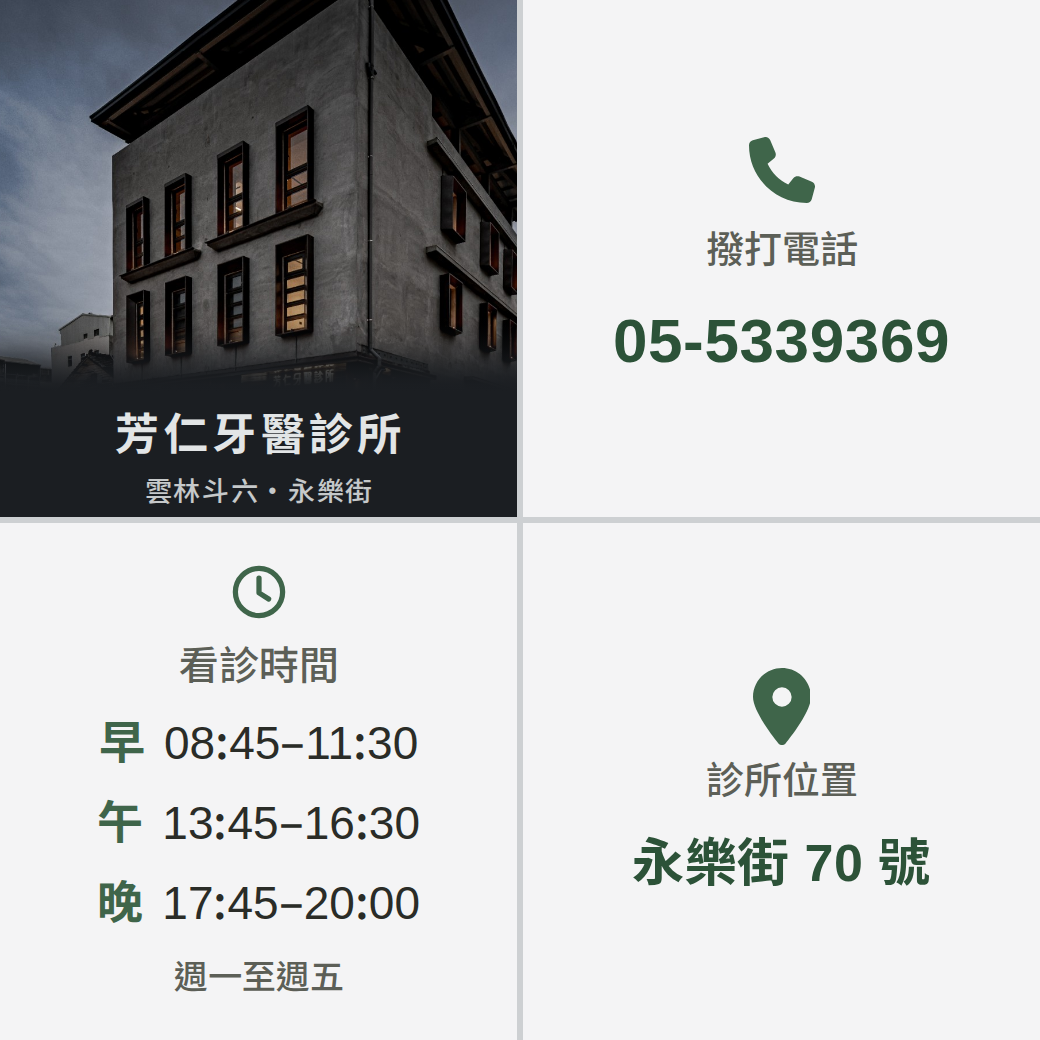
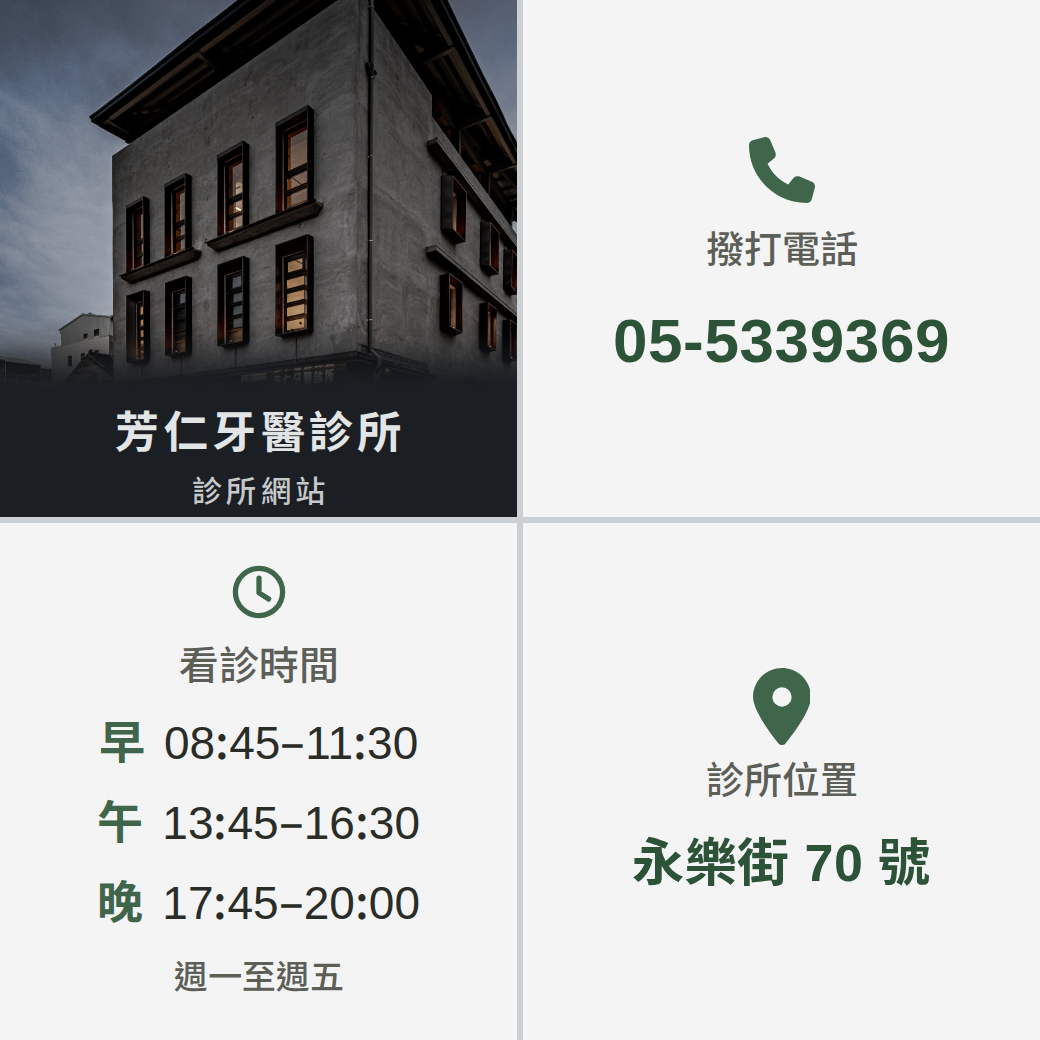
LINE：招呼訊息與自動回應分開寫，文字收短、功能秀出來
使用者第二輪：選四格圖；歡迎那一則要短、要講「這個 LINE 有什麼功能」，
不需要寫「無法一則一則回覆」；病人打字之後那一則要另外做，而且不能
只說「這裡沒有人」，要把功能一起秀出來。

・分清楚後台是兩個設定：招呼訊息只在加好友時送一次（可用顯示名稱變數），
  自動回應對任何訊息都回 —— 包含那句「綁定成功」，所以同一則要在
  「剛綁定完」與「打字要改約」兩種情境下都讀得通。
・四格圖左上那格第二行從地名改成「診所網站」：其他三格都寫著點下去
  會怎樣，只有它沒有，那正是使用者說「不是一個完整的功能回應」的地方。
・電話號碼改成自己一行 —— 原本在 390 寬上被折成 05- / 5339369，
  折了就不再是一個可以點的電話。
・提案頁改成文字跟著情境走，三個情境 × 四個版本。
  新版自動回應 28%、招呼訊息 31%，和現況一樣輕。

Claude-Session: https://claude.ai/code/session_01XYwYJoHc1We7z3qC49kjKr

Changed region(s): [[0.0923, 0.4, 0.4, 0.4923]]

diff --git a/preview/line-reply/index.html b/preview/line-reply/index.html
@@ -95,8 +95,10 @@ h1{font-size:1rem;font-weight:700;letter-spacing:.02em}
 
 <div class="pv-wrap">
   <h1>LINE 自動回應 —— 病人手機上長什麼樣</h1>
-  <p class="pv-sub">底下切換<b>情境</b>與<b>版本</b>。這是病人看到的畫面：官方帳號在左邊，
-    他自己的訊息在右邊。後台那個「自動回應訊息」小標籤只有你看得到，他不會看到。</p>
+  <p class="pv-sub">底下切換<b>情境</b>與<b>版本</b>。這是病人看到的畫面：官方帳號在左邊，他自己的訊息在右邊。
+    後台那個「自動回應訊息」小標籤只有你看得到，他不會看到。<br>
+    ⚠ <b>加好友</b>那一則是「招呼訊息」，<b>綁定完</b>與<b>打字之後</b>跳出來的是同一則「自動回應」——
+    後台是兩個不同的設定。</p>
 
   <div class="pv-phone">
     <div class="pv-head">
@@ -119,39 +121,46 @@ h1{font-size:1rem;font-weight:700;letter-spacing:.02em}
 (function () {
   var TEL = "05-5339369";
 
-  /* ------- 各版本的自動回應（全文與推導在 drafts/line-auto-reply/README.md） ---- */
-  var REPLY = {
-    now: { name: "現況", text:
-"感謝您的訊息！\n\n很抱歉，本帳號無法個別回覆用戶的訊息。\n如有需要更改約診，\n麻煩在診所營業時間來電 。\n診所電話 055339369 謝謝。\n診所有專業的諮詢人員，\n如有療程需要了解，\n請來電告知想要約諮詢師了解。" },
+  /* ⚠⚠ 後台是兩個不同的設定，而且 LINE 分不出「剛綁定完」和「打字問事情」：
+     ・招呼訊息 —— 只在「加好友」的當下送一次，可以用 {好友的顯示名稱} 這個變數。
+     ・自動回應 —— 病人送出任何訊息都會回；那句「綁定成功」是以病人的身分送進
+       聊天室的，所以它也會觸發這一則。**同一則文字要在兩種情境下都讀得通。** */
 
-    a: { name: "純文字", text:
-"這裡是芳仁牙醫診所。\n\n要改約診、取消，或想先了解療程，\n請直接撥 " + TEL + "，\n接電話的是診所人員，當場就能幫你排好。\n這個帳號的訊息沒有辦法一則一則回覆，\n先跟你說一聲，免得你在這裡等。\n\n看診時間　週一至週五\n早 08:45–11:30／午 13:45–16:30／晚 17:45–20:00\n（忙線多半是診間正在接另一通，隔幾分鐘再撥）\n\n門診表與診所位置：https://fangren.net" },
-
-    a2: { name: "純文字・完整", text:
-"這裡是芳仁牙醫診所。\n\n要改約診、取消，或想先了解療程，\n請直接撥 " + TEL + " ——\n接電話的是診所的人員，當場就能幫你排好。\n這個帳號的訊息沒有辦法一則一則回覆，\n先跟你說一聲，免得你在這裡等。\n\n電話忙線，多半是診間正在接另一通，\n隔幾分鐘再撥就會通。\n\n看診時間（週一至週五）\n　早　08:45–11:30\n　午　13:45–16:30\n　晚　17:45–20:00\n　週六、週日休診\n國定假日與各科特別門診，也請來電確認。\n\n門診表、各科說明與診所位置：\nhttps://fangren.net" },
-
-    b: { name: "文字＋照片", img: "../../assets/og-home.jpg", text:
-"這裡是芳仁牙醫診所。\n\n要改約診、取消，或想先了解療程，\n請直接撥 " + TEL + "，\n接電話的是診所的人員，當場就能幫你排好。\n這個帳號的訊息沒有辦法一則一則回覆，\n先跟你說一聲，免得你在這裡等。\n\n電話忙線，多半是診間正在接另一通，\n隔幾分鐘再撥就會通。\n\n看診時間（週一至週五）\n　早 08:45–11:30／午 13:45–16:30／晚 17:45–20:00\n　週六、週日休診" },
-
-    c: { name: "圖文訊息・兩格", img: "rich-2.png", tap: "上半點下去開網站，下半點下去直接撥號", text:
-"這裡是芳仁牙醫診所。\n\n要改約診、取消，或想先了解療程，\n上面那張圖，下半點一下就會撥出電話（" + TEL + "），\n診所人員當場就能幫你排好。\n\n這個帳號的訊息沒有辦法一則一則回覆，\n先跟你說一聲，免得你在這裡等。" },
-
-    d: { name: "圖文訊息・四格", img: "rich-4.png", tap: "四格各自可以點：照片開網站、電話直接撥、時間開門診表、位置開地圖", text:
-"這裡是芳仁牙醫診所。\n\n要改約診或取消，上面那格電話點一下就會撥出，\n診所人員當場就能幫你排好。\n電話忙線，多半是診間正在接另一通，隔幾分鐘再撥。\n\n這個帳號的訊息沒有辦法一則一則回覆，\n先跟你說一聲，免得你在這裡等。" }
+  var WELCOME = {
+    img:
+"{好友的顯示名稱}你好，這裡是芳仁牙醫診所。\n斗六永樂街上，1983 年開到現在。\n\n在這個 LINE 上你可以：\n・改約診、取消 —— 打電話最快\n・看門診時間，哪一診有你要看的科\n・點開地圖找路，附近哪裡好停車\n\n看診時間內都有人接：\n" + TEL + "",
+    txt:
+"{好友的顯示名稱}你好，這裡是芳仁牙醫診所。\n斗六永樂街上，1983 年開到現在。\n\n改約診、取消，打電話最快：" + TEL + "\n看診時間　週一至週五\n早 08:45–11:30／午 13:45–16:30／晚 17:45–20:00\n\n門診表、找路與各科說明：https://fangren.net"
   };
 
-  var WELCOME =
-"{好友的顯示名稱}你好，這裡是芳仁牙醫診所。\n\n診所在雲林斗六永樂街 70 號，1983 年開業到現在。\n\n要約診、改約或取消，請撥 " + TEL + "，\n看診時間內都有人接。\n\n看診時間（週一至週五）\n　早　08:45–11:30\n　午　13:45–16:30\n　晚　17:45–20:00\n　週六、週日休診\n\n門診表、醫師介紹與各科說明：\nhttps://fangren.net";
-
-  var SCENE = {
-    bind:  "剛綁定完",
-    ask:   "要改約診",
-    hello: "剛加好友"
+  var AUTO = {
+    img:
+"這裡是芳仁牙醫診所。\n\n這個帳號沒有專人看訊息，\n改約診或取消，直接撥電話最快：\n" + TEL + "\n看診時間內都有人接，忙線就隔幾分鐘再撥。\n\n門診時間、找路、診所網站，\n上面那張圖點一下就有。",
+    txt:
+"這裡是芳仁牙醫診所。\n\n這個帳號沒有專人看訊息，\n改約診或取消，直接撥電話最快：\n" + TEL + "\n看診時間內都有人接，忙線就隔幾分鐘再撥。\n\n看診時間　週一至週五\n早 08:45–11:30／午 13:45–16:30／晚 17:45–20:00\n門診表與找路：https://fangren.net"
   };
 
-  var state = { s: "bind", v: "a" };
+  var NOW =
+"感謝您的訊息！\n\n很抱歉，本帳號無法個別回覆用戶的訊息。\n如有需要更改約診，\n麻煩在診所營業時間來電 。\n診所電話 055339369 謝謝。\n診所有專業的諮詢人員，\n如有療程需要了解，\n請來電告知想要約諮詢師了解。";
 
-  /* ------- 畫一則訊息 ------------------------------------------------- */
+  var VER = {
+    now:  { name: "現況" },
+    four: { name: "四格圖＋短文字", img: "rich-4.png",
+            tap: "四格各自可以點：診所網站、直接撥號、門診表、Google 地圖" },
+    two:  { name: "兩格圖＋短文字", img: "rich-2.png",
+            tap: "上半開網站、下半直接撥號" },
+    text: { name: "只有文字" }
+  };
+  var SCENE = { hello: "剛加好友", bind: "剛綁定完", ask: "傳訊息要改約" };
+
+  var state = { s: "bind", v: "four" };
+
+  function body(scene, ver) {
+    if (ver === "now") return NOW;
+    var set = (scene === "hello") ? WELCOME : AUTO;
+    return VER[ver].img ? set.img : set.txt;
+  }
+
   function el(tag, cls, txt) {
     var n = document.createElement(tag);
     if (cls) n.className = cls;
@@ -159,8 +168,7 @@ h1{font-size:1rem;font-weight:700;letter-spacing:.02em}
     return n;
   }
   function linkify(node, text) {
-    var parts = text.split(/(https:\/\/fangren\.net)/);
-    parts.forEach(function (p, i) {
+    text.split(/(https:\/\/fangren\.net)/).forEach(function (p, i) {
       if (i % 2) { var a = el("a", null, p); a.href = p; node.appendChild(a); }
       else node.appendChild(document.createTextNode(p));
     });
@@ -168,10 +176,9 @@ h1{font-size:1rem;font-weight:700;letter-spacing:.02em}
   function msg(who, time, build) {
     var row = el("div", "pv-msg" + (who === "me" ? " me" : ""));
     var av = el("div", "pv-av");
-    if (who !== "me") { av.style.background = "url(../../assets/icon-192.png) center/cover"; }
+    if (who !== "me") av.style.background = "url(../../assets/icon-192.png) center/cover";
     row.appendChild(av);
-    var body = build();
-    row.appendChild(body);
+    row.appendChild(build());
     row.appendChild(el("span", "pv-t", time));
     return row;
   }
@@ -181,21 +188,25 @@ h1{font-size:1rem;font-weight:700;letter-spacing:.02em}
   function image(src) {
     return function () {
       var b = el("div", "pv-bub img"), i = new Image();
-      i.src = src; i.alt = ""; b.appendChild(i); return b;
+      i.src = src; i.alt = ""; i.addEventListener("load", measure);
+      b.appendChild(i); return b;
     };
+  }
+  function reply(chat, time) {
+    var v = VER[state.v];
+    if (v.img) chat.appendChild(msg("oa", time, image(v.img)));
+    chat.appendChild(msg("oa", time, bubble(body(state.s, state.v))));
   }
 
   function render() {
     var chat = document.getElementById("chat");
     chat.innerHTML = "";
-    var r = REPLY[state.v];
     chat.appendChild(el("div", "pv-day", "今天"));
 
     if (state.s === "hello") {
-      chat.appendChild(msg("oa", "8:44", bubble(
-        state.v === "now"
-          ? "（現行的招呼訊息我沒有看到，所以這一格放的是新版）\n\n" + WELCOME
-          : WELCOME)));
+      if (state.v === "now")
+        chat.appendChild(msg("oa", "8:44", bubble("（現行的招呼訊息我沒有看到，所以這一格是空的）")));
+      else reply(chat, "8:44");
     } else if (state.s === "bind") {
       chat.appendChild(msg("oa", "8:45", function () {
         var c = el("div", "pv-card");
@@ -204,55 +215,50 @@ h1{font-size:1rem;font-weight:700;letter-spacing:.02em}
         return c;
       }));
       chat.appendChild(msg("me", "8:46", bubble("✅ 0976237217 綁定成功！\n可以啟用線上相關服務囉！")));
-      if (r.img) chat.appendChild(msg("oa", "8:46", image(r.img)));
-      chat.appendChild(msg("oa", "8:46", bubble(r.text)));
+      reply(chat, "8:46");
     } else {
       chat.appendChild(msg("me", "18:42", bubble("你好，我想改下週三下午的約診")));
-      if (r.img) chat.appendChild(msg("oa", "18:42", image(r.img)));
-      chat.appendChild(msg("oa", "18:42", bubble(r.text)));
+      reply(chat, "18:42");
       chat.appendChild(msg("me", "18:44", bubble("謝謝，我有打電話，忙線中")));
-      if (r.img) chat.appendChild(msg("oa", "18:44", image(r.img)));
-      chat.appendChild(msg("oa", "18:44", bubble(r.text)));
+      reply(chat, "18:44");
     }
     requestAnimationFrame(measure);
   }
 
-  /* ------- 量測面板：這一則在他的螢幕上有多大 -------------------------- */
   function measure() {
-    var r = REPLY[state.v];
+    var v = VER[state.v];
     var bubs = document.querySelectorAll(".pv-chat .pv-msg:not(.me) .pv-bub:not(.img)");
     var last = bubs[bubs.length - 1];
     var vh = (window.visualViewport ? window.visualViewport.height : window.innerHeight);
     var h = last ? last.getBoundingClientRect().height : 0;
     var pct = h / vh * 100;
-    var lines = r.text.split("\n").length;
+    var lines = body(state.s, state.v).split("\n").length;
     var img = document.querySelector(".pv-chat .pv-bub.img img");
     var iw = img ? Math.round(img.getBoundingClientRect().width) : 0;
-
-    var verdict = pct > 62
-      ? '<span class="no">佔掉一屏的 ' + pct.toFixed(0) + '%</span>，他要捲才看得完'
-      : '<span class="ok">佔一屏的 ' + pct.toFixed(0) + '%</span>，一眼看得完';
+    var kind = (state.s === "hello") ? "招呼訊息" : "自動回應";
 
     document.getElementById("panel").innerHTML =
-      '<b>' + r.name + '</b>　' + verdict +
-      '<br>訊息 <b>' + lines + '</b> 行・泡泡高 <b>' + h.toFixed(0) + 'px</b>' +
-      '（你的螢幕 ' + Math.round(window.innerWidth) + '×' + Math.round(vh) + '）' +
-      (iw ? '<br>圖在聊天室裡實際顯示 <b>' + iw + 'px</b> 寬（原檔 ' +
-            (r.img.indexOf("og-home") >= 0 ? "1200×628" : "1040×1040") + '）' : '') +
-      (r.tap ? '<br>可以點的地方：' + r.tap : '');
+      "<b>" + kind + "・" + v.name + "</b>　" +
+      (pct > 62 ? '<span class="no">佔一屏 ' + pct.toFixed(0) + "%</span>，要捲才看得完"
+                : '<span class="ok">佔一屏 ' + pct.toFixed(0) + '%</span>，一眼看得完') +
+      "<br>文字 <b>" + lines + "</b> 行・泡泡高 <b>" + h.toFixed(0) + "px</b>（你的螢幕 " +
+      Math.round(window.innerWidth) + "×" + Math.round(vh) + "）" +
+      (iw ? "<br>圖在聊天室裡實際顯示 <b>" + iw + "px</b> 寬（原檔 1040×1040）" : "") +
+      (v.tap ? "<br>可以點的地方：" + v.tap : "");
 
     document.getElementById("note").textContent =
-      state.s === "bind"
-        ? "綁定成功那一句是以「病人的身分」送進聊天室的，所以自動回應一定會被觸發，"
-          + "而且擋不掉（LINE 的關鍵字回應是完全一致比對，那句話裡的手機號碼每個人都不一樣）。"
-          + "所以第一句不能是道歉 —— 現況那一版讀起來就是在回絕一句系統通知。"
-        : state.s === "ask"
-        ? "這是截圖裡真的發生過的一段：他傳訊息、拿到自動回應、打了電話忙線、再傳一次、"
-          + "又拿到同一則。同一則會出現兩次，所以它必須每次讀起來都還有用。"
-        : "招呼訊息是加好友的當下就送出的那一則，和自動回應是後台兩個不同的設定。";
+      state.s === "hello"
+        ? "「招呼訊息」是加好友的當下送出的那一則，後台和自動回應是兩個不同的設定，"
+          + "而且只有它可以用 {好友的顯示名稱} 這個變數。"
+        : state.s === "bind"
+        ? "⚠ 這一則不是招呼訊息，是自動回應 —— 那句「綁定成功」是以病人的身分送進聊天室的，"
+          + "所以自動回應被觸發了，而且擋不掉（LINE 的關鍵字回應是完全一致比對，"
+          + "那句話裡的手機號碼每個人都不一樣）。所以同一則文字要在「剛綁定完」與"
+          + "「打字問事情」兩種情境下都讀得通。"
+        : "截圖裡真的發生過的一段：他傳訊息、拿到自動回應、打了電話忙線、再傳一次、"
+          + "又拿到同一則。同一則會出現兩次，所以它每次讀起來都還要有用。";
   }
 
-  /* ------- 切換條 ------------------------------------------------------ */
   function chips(host, obj, key) {
     Object.keys(obj).forEach(function (k) {
       var b = el("button", null, obj[k].name || obj[k]);
@@ -260,9 +266,7 @@ h1{font-size:1rem;font-weight:700;letter-spacing:.02em}
       b.setAttribute("aria-pressed", String(state[key] === k));
       b.addEventListener("click", function () {
         state[key] = k;
-        host.parentNode.querySelectorAll("button").forEach(function (x) {
-          x.setAttribute("aria-pressed", "false");
-        });
+        host.querySelectorAll("button").forEach(function (x) { x.setAttribute("aria-pressed", "false"); });
         b.setAttribute("aria-pressed", "true");
         sync(); render();
       });
@@ -270,16 +274,15 @@ h1{font-size:1rem;font-weight:700;letter-spacing:.02em}
     });
   }
   function sync() {
-    var q = "?s=" + state.s + "&v=" + state.v;
-    history.replaceState(null, "", location.pathname + q);
+    history.replaceState(null, "", location.pathname + "?s=" + state.s + "&v=" + state.v);
   }
   var m = location.search.match(/[?&]s=([a-z0-9]+)/);
   if (m && SCENE[m[1]]) state.s = m[1];
   m = location.search.match(/[?&]v=([a-z0-9]+)/);
-  if (m && REPLY[m[1]]) state.v = m[1];
+  if (m && VER[m[1]]) state.v = m[1];
 
   chips(document.getElementById("sw-s"), SCENE, "s");
-  chips(document.getElementById("sw-v"), REPLY, "v");
+  chips(document.getElementById("sw-v"), VER, "v");
   render();
   window.addEventListener("resize", measure);
 })();
